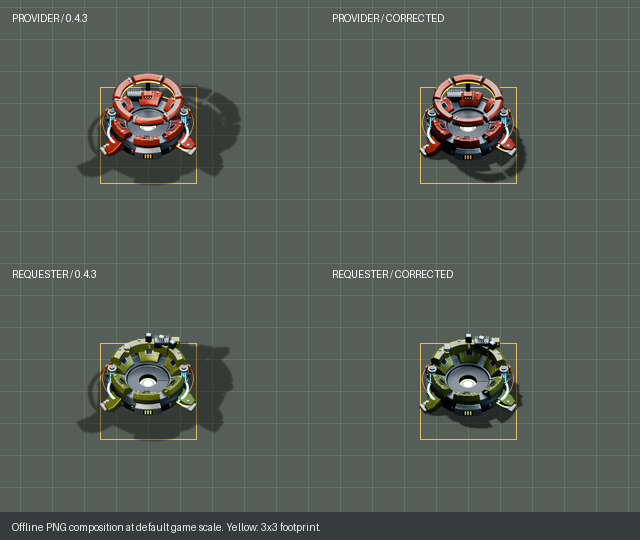
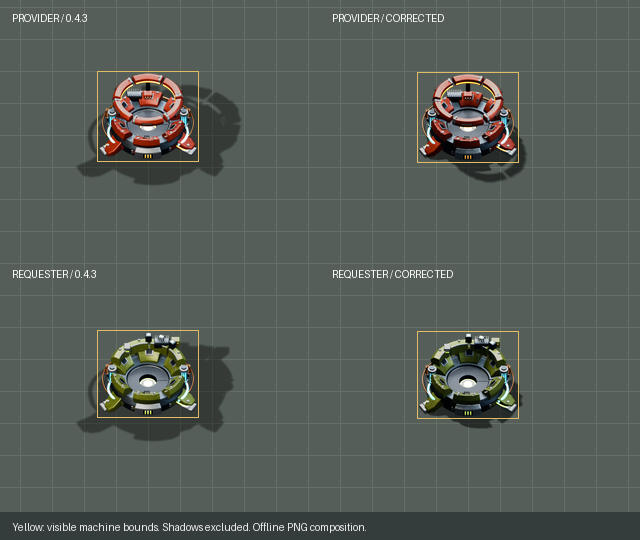
fix(previews): fit yellow guides to visible sprite bounds

diff --git a/graphics/source/rounded-transfer-v1/pack_sprites.py b/graphics/source/rounded-transfer-v1/pack_sprites.py
@@ -6,14 +6,14 @@ Pillow only packs, downsamples, and makes review previews; Blender supplies all 
 from pathlib import Path
 import hashlib
 import json
-from PIL import Image, ImageChops, ImageDraw
+from PIL import Image
+from preview_sprites import write_previews
 
 ROOT=Path(__file__).resolve().parent
 DEST=ROOT.parent.parent/'entities'/'rounded-v1'
 DEST.mkdir(exist_ok=True)
 CELL=(192,256)
 reports={}
-all_frames={}
 
 def raw(role,kind,frame):
     folder=ROOT/'raw'/role
@@ -69,33 +69,9 @@ for role in ['provider','requester']:
     box=shadow.getbbox()
     if not box or box[0]<2 or box[1]<2 or box[2]>382 or box[3]>254:raise RuntimeError(f'Clipped or empty shadow: {role}: {box}')
     shadow.save(DEST/f'{role}_shadow.png',optimize=True)
-    all_frames[role]=[]
-    for b,e in zip(body,emission):
-        frame=ImageChops.add(b.convert('RGB'),e.convert('RGB'))
-        frame.putalpha(b.getchannel('A'))
-        all_frames[role].append(frame)
     reports[role]={'frames':128,'unique_idle_frames':len({im.tobytes() for im in emission[:64]}),'unique_active_frames':len({im.tobytes() for im in emission[64:]}),'min_margin_px':min(min(a,b,192-c,256-d) for a,b,c,d in boxes),'body_bounds_union':[min(b[0] for b in boxes),min(b[1] for b in boxes),max(b[2] for b in boxes),max(b[3] for b in boxes)],'shadow_bbox':shadow.getbbox()}
 
-labels=['PROVIDER / IDLE','PROVIDER / ACTIVE','REQUESTER / IDLE','REQUESTER / ACTIVE']
-previews=[]
-for f in range(64):
-    page=Image.new('RGB',(768,288),'#252c34')
-    draw=ImageDraw.Draw(page)
-    for col,(role,offset) in enumerate([('provider',0),('provider',64),('requester',0),('requester',64)]):
-        tile=Image.new('RGBA',(192,256),'#555e58')
-        grid=ImageDraw.Draw(tile)
-        for x in range(0,192,32):grid.line((x,0,x,256),fill='#647066')
-        for y in range(12,256,32):grid.line((0,y,192,y),fill='#647066')
-        grid.rectangle((48,92,144,188),outline='#e0bd65')
-        shadow=Image.open(DEST/f'{role}_shadow.png').convert('RGBA').resize((240,160),Image.Resampling.LANCZOS)
-        frame=all_frames[role][offset+f].resize((120,160),Image.Resampling.LANCZOS)
-        tile.alpha_composite(shadow,(-24,60))
-        tile.alpha_composite(frame,(36,60))
-        page.paste(tile.convert('RGB'),(col*192,0))
-        draw.text((col*192+12,268),labels[col],fill='#d9dcd8')
-    previews.append(page)
-previews[0].save(ROOT/'native-sprite-preview.png')
-previews[0].save(ROOT/'animation-preview.gif',save_all=True,append_images=previews[1:],duration=30,loop=0,disposal=2)
+write_previews()
 manifest={'blender_version':'5.2.3 LTS','source':'rounded-transfer-v1.blend','source_sha256':hashlib.sha256((ROOT/'rounded-transfer-v1.blend').read_bytes()).hexdigest(),'cell':[192,256],'grid':[8,8],'frames_per_state':64,'idle_animation_speed':.5,'active_animation_speed':1,'pixels_per_tile':51.2,'anchor':[96,128],'factorio_scale':.625,'factorio_shift':[0,0],'shadow_size':[384,256],'shadow_method':'Cycles shadow catcher with matching body sun, ground datum and pixel density','export_notes':'Blender-authored body with direct emission subtracted in linear space; separate additive emission; supersampled 2x and downsampled with alpha-aware Lanczos. Animation preview GIF is slowed for inspection. Not a captured in-game screenshot.','validation':reports,'files':{p.name:hashlib.sha256(p.read_bytes()).hexdigest() for p in sorted(DEST.glob('*.png'))}}
 (ROOT/'manifest.json').write_text(json.dumps(manifest,indent=2)+'\n')
 print(json.dumps({'files':len(manifest['files']),'output':str(DEST),'validation':reports},indent=2))

diff --git a/graphics/source/rounded-transfer-v1/preview_grounding.py b/graphics/source/rounded-transfer-v1/preview_grounding.py
@@ -2,13 +2,14 @@
 
 Run with uv run --with pillow python preview_grounding.py.
 Uses actual sprite scale/shift from each revision's data.lua, not Blender's
-presentation camera. The yellow square is the 3x3-tile placement footprint.
+presentation camera. Yellow guides follow the visible machine, excluding shadow.
 """
 from pathlib import Path
 from io import BytesIO
 import re
 import subprocess
 from PIL import Image, ImageChops, ImageDraw
+from preview_sprites import draw_visual_guide
 
 ROOT=Path(__file__).resolve().parents[3]
 OUT=Path(__file__).resolve().parent
@@ -34,7 +35,6 @@ def composite(role,before):
     cx,cy=148,135
     for x in range(cx%32,320,32):draw.line((x,0,x,256),fill='#647066')
     for y in range(cy%32,256,32):draw.line((0,y,320,y),fill='#647066')
-    draw.rectangle((cx-48,cy-48,cx+48,cy+48),outline='#e0bd65')
     prefix='graphics/entities/rounded-v1/'+role
     body=image(prefix+'_animation_sheet_idle.png',before).crop((0,0,192,256))
     emission=image(prefix+'_emission_sheet_idle.png',before).crop((0,0,192,256))
@@ -45,13 +45,16 @@ def composite(role,before):
         scale,shift=params(filename,before)
         size=tuple(round(n*scale) for n in layer.size)
         layer=layer.resize(size,Image.Resampling.LANCZOS)
-        tile.alpha_composite(layer,(round(cx-size[0]/2+shift[0]),round(cy-size[1]/2+shift[1])))
+        offset=(round(cx-size[0]/2+shift[0]),round(cy-size[1]/2+shift[1]))
+        tile.alpha_composite(layer,offset)
+    draw_visual_guide(ImageDraw.Draw(tile),layer,offset)
     ImageDraw.Draw(tile).text((12,12),role.upper()+(' / 0.4.3' if before else ' / CORRECTED'),fill='white')
     return tile.convert('RGB')
 
-page=Image.new('RGB',(640,540),'#343c3c')
-for row,role in enumerate(['provider','requester']):
-    for col,before in enumerate([True,False]):page.paste(composite(role,before),(col*320,row*256))
-ImageDraw.Draw(page).text((12,521),'Offline PNG composition at default game scale. Yellow: 3x3 footprint.',fill='#eeeeee')
-page.save(OUT/'grounding-preview.png')
-print(OUT/'grounding-preview.png')
+if __name__=='__main__':
+    page=Image.new('RGB',(640,540),'#343c3c')
+    for row,role in enumerate(['provider','requester']):
+        for col,before in enumerate([True,False]):page.paste(composite(role,before),(col*320,row*256))
+    ImageDraw.Draw(page).text((12,521),'Yellow: visible machine bounds. Shadows excluded. Offline PNG composition.',fill='#eeeeee')
+    page.save(OUT/'grounding-preview.png')
+    print(OUT/'grounding-preview.png')

diff --git a/graphics/source/rounded-transfer-v1/preview_sprites.py b/graphics/source/rounded-transfer-v1/preview_sprites.py
@@ -1,0 +1,44 @@
+"""Make labelled visual-bounds previews directly from the exported PNGs."""
+from pathlib import Path
+from PIL import Image,ImageChops,ImageDraw
+
+ROOT=Path(__file__).resolve().parent
+DEST=ROOT.parent.parent/'entities/rounded-v1'
+
+def draw_visual_guide(draw,sprite,offset):
+    box=sprite.getchannel('A').point(lambda a:255 if a>=16 else 0).getbbox()
+    if box:
+        x,y=offset
+        draw.rectangle((x+box[0]-2,y+box[1]-2,x+box[2]+1,y+box[3]+1),outline='#e0bd65')
+
+def write_previews():
+    roles=['provider','requester']
+    states=['idle','active']
+    sheets={(r,s,k):Image.open(DEST/f'{r}_{k}_sheet_{s}.png').convert('RGBA') for r in roles for s in states for k in ['animation','emission']}
+    shadows={r:Image.open(DEST/f'{r}_shadow.png').convert('RGBA').resize((240,160),Image.Resampling.LANCZOS) for r in roles}
+    previews=[]
+    for f in range(64):
+        page=Image.new('RGB',(768,304),'#252c34')
+        labels=ImageDraw.Draw(page)
+        box=((f%8)*192,(f//8)*256,(f%8+1)*192,(f//8+1)*256)
+        for col,(role,state) in enumerate((r,s) for r in roles for s in states):
+            body=sheets[role,state,'animation'].crop(box)
+            emission=sheets[role,state,'emission'].crop(box)
+            frame=ImageChops.add(body.convert('RGB'),emission.convert('RGB'))
+            frame.putalpha(body.getchannel('A'))
+            frame=frame.resize((120,160),Image.Resampling.LANCZOS)
+            tile=Image.new('RGBA',(192,256),'#555e58')
+            grid=ImageDraw.Draw(tile)
+            for x in range(0,192,32):grid.line((x,0,x,256),fill='#647066')
+            for y in range(12,256,32):grid.line((0,y,192,y),fill='#647066')
+            tile.alpha_composite(shadows[role],(-24,60))
+            tile.alpha_composite(frame,(36,60))
+            draw_visual_guide(ImageDraw.Draw(tile),frame,(36,60))
+            page.paste(tile.convert('RGB'),(col*192,0))
+            labels.text((col*192+12,266),role.upper()+' / '+state.upper(),fill='#d9dcd8')
+        labels.text((12,287),'Yellow: visible machine bounds. Shadows excluded. Offline PNG composition.',fill='#d9dcd8')
+        previews.append(page)
+    previews[0].save(ROOT/'native-sprite-preview.png')
+    previews[0].save(ROOT/'animation-preview.gif',save_all=True,append_images=previews[1:],duration=30,loop=0,disposal=2)
+
+if __name__=='__main__':write_previews()

diff --git a/tests/preview_guides.py b/tests/preview_guides.py
@@ -1,0 +1,32 @@
+"""Verify the yellow preview guide frames the rendered machine, offline."""
+from pathlib import Path
+import sys
+import unittest
+from PIL import Image
+
+ROOT=Path(__file__).resolve().parents[1]
+SOURCE=ROOT/'graphics/source/rounded-transfer-v1'
+sys.path.insert(0,str(SOURCE))
+import preview_grounding as preview
+
+class PreviewGuides(unittest.TestCase):
+    def test_guides_enclose_visible_machine_without_empty_footprint_space(self):
+        for role in ['provider','requester']:
+            for before in [True,False]:
+                with self.subTest(role=role,before=before):
+                    tile=preview.composite(role,before)
+                    yellow=[(x,y) for y in range(tile.height) for x in range(tile.width) if tile.getpixel((x,y))==(224,189,101)]
+                    self.assertTrue(yellow,'Missing yellow visual-bounds guide')
+                    actual=(min(x for x,y in yellow),min(y for x,y in yellow),max(x for x,y in yellow)+1,max(y for x,y in yellow)+1)
+                    filename=role+'_animation_sheet_idle.png'
+                    sprite=preview.image('graphics/entities/rounded-v1/'+filename,before).crop((0,0,192,256))
+                    scale,shift=preview.params(filename,before)
+                    size=tuple(round(n*scale) for n in sprite.size)
+                    sprite=sprite.resize(size,Image.Resampling.LANCZOS)
+                    visible=sprite.getchannel('A').point(lambda a:255 if a>=16 else 0).getbbox()
+                    offset=(round(148-size[0]/2+shift[0]),round(135-size[1]/2+shift[1]))
+                    expected=(visible[0]+offset[0],visible[1]+offset[1],visible[2]+offset[0],visible[3]+offset[1])
+                    self.assertTrue(actual[0]<=expected[0] and actual[1]<=expected[1] and actual[2]>=expected[2] and actual[3]>=expected[3],f'{role}: yellow guide {actual} clips visible machine {expected}')
+                    self.assertLessEqual(max(abs(a-b) for a,b in zip(actual,expected)),4,f'{role}: yellow guide includes empty footprint space')
+
+if __name__=='__main__':unittest.main()
